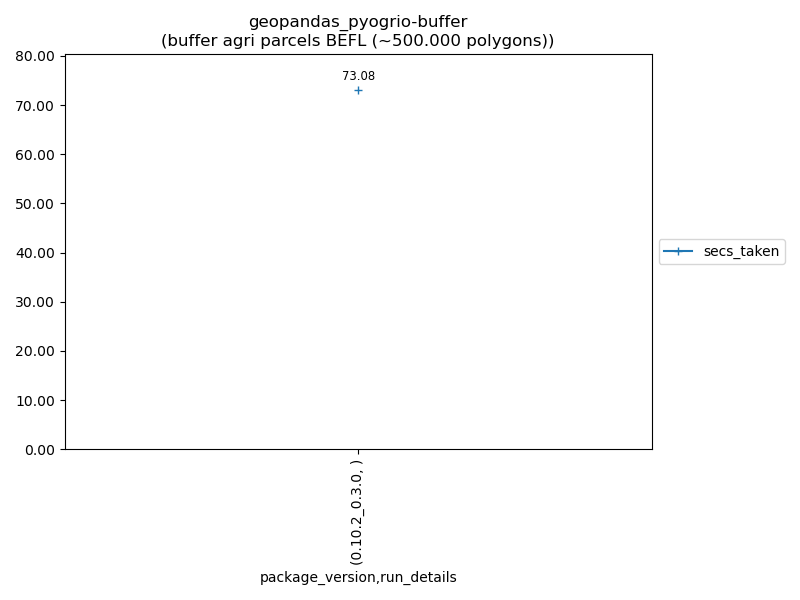
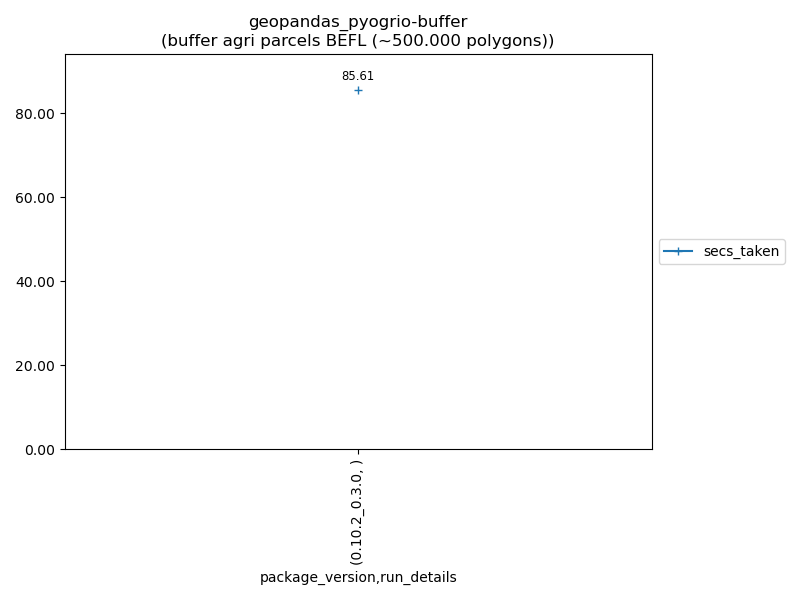
Small improvements

diff --git a/benchmarks/benchmarks_geopandas_pyogrio.py b/benchmarks/benchmarks_geopandas_pyogrio.py
@@ -7,6 +7,7 @@ from datetime import datetime
 import logging
 from pathlib import Path
 
+from geofileops.util import geoseries_util
 import geopandas as gpd
 import pyogrio
 
@@ -23,10 +24,10 @@ logger = logging.getLogger(__name__)
 # The real work
 ################################################################################
 
-def get_package() -> str:
+def _get_package() -> str:
     return "geopandas_pyogrio"
 
-def get_version() -> str:
+def _get_version() -> str:
     return f"{gpd.__version__}_{pyogrio.__version__}".replace("v", "")
 
 def buffer(tmp_dir: Path) -> RunResult:
@@ -47,12 +48,14 @@ def buffer(tmp_dir: Path) -> RunResult:
     
     # Write to output file
     start_time_write = datetime.now()
+    # Harmonize, otherwise invalid gpkg because mixed poly and multipoly
+    gdf.geometry = geoseries_util.harmonize_geometrytypes(gdf.geometry)
     output_path = tmp_dir / f"{input_path.stem}_geopandas_buf.gpkg"
     pyogrio.write_dataframe(gdf, output_path, layer=output_path.stem, driver="GPKG")
     logger.info(f"write took {(datetime.now()-start_time_write).total_seconds()}")    
     result = RunResult(
-            package=get_package(), 
-            package_version=get_version(),
+            package=_get_package(), 
+            package_version=_get_version(),
             operation="buffer", 
             secs_taken=(datetime.now()-start_time).total_seconds(),
             operation_descr="buffer agri parcels BEFL (~500.000 polygons)")
@@ -84,8 +87,8 @@ def dissolve(tmp_dir: Path) -> RunResult:
     pyogrio.write_dataframe(gdf, output_path, layer=output_path.stem, driver="GPKG")
     logger.info(f"write took {(datetime.now()-start_time_write).total_seconds()}")
     result = RunResult(
-            package=get_package(), 
-            package_version=get_version(),
+            package=_get_package(), 
+            package_version=_get_version(),
             operation="dissolve", 
             secs_taken=(datetime.now()-start_time).total_seconds(),
             operation_descr="dissolve agri parcels BEFL (~500.000 polygons)")
@@ -116,8 +119,8 @@ def dissolve_groupby(tmp_dir: Path) -> RunResult:
     pyogrio.write_dataframe(gdf, output_path, layer=output_path.stem, driver="GPKG")
     logger.info(f"write took {(datetime.now()-start_time_write).total_seconds()}")
     result = RunResult(
-            package=get_package(), 
-            package_version=get_version(),
+            package=_get_package(), 
+            package_version=_get_version(),
             operation="dissolve_groupby", 
             secs_taken=(datetime.now()-start_time).total_seconds(),
             operation_descr="dissolve on agri parcels BEFL (~500.000 polygons), groupby=GEWASGROEPs")
@@ -150,8 +153,8 @@ def intersect(tmp_dir: Path) -> RunResult:
     logger.info(f"write took {(datetime.now()-start_time_write).total_seconds()}")
     secs_taken = (datetime.now()-start_time).total_seconds()
     result = RunResult(
-            package=get_package(), 
-            package_version=get_version(),
+            package=_get_package(), 
+            package_version=_get_version(),
             operation='intersect', 
             secs_taken=secs_taken,
             operation_descr="intersect between 2 agri parcel layers BEFL (2*~500.000 polygons)")

diff --git a/benchmarks/benchmarks_geofileops.py b/benchmarks/benchmarks_geofileops.py
@@ -23,10 +23,10 @@ logger = logging.getLogger(__name__)
 # The real work
 ################################################################################
 
-def get_package() -> str:
+def _get_package() -> str:
     return "geofileops"
 
-def get_version() -> str:
+def _get_version() -> str:
     return gfo.__version__
 
 def buffer(tmp_dir: Path) -> RunResult:
@@ -39,8 +39,8 @@ def buffer(tmp_dir: Path) -> RunResult:
     start_time = datetime.now()
     gfo.buffer(input_path, output_path, distance=1, force=True)
     result = RunResult(
-            package=get_package(), 
-            package_version=get_version(),
+            package=_get_package(), 
+            package_version=_get_version(),
             operation="buffer", 
             secs_taken=(datetime.now()-start_time).total_seconds(),
             operation_descr="buffer on agri parcel layer BEFL (~500.000 polygons)",
@@ -64,8 +64,8 @@ def dissolve_nogroupby(tmp_dir: Path) -> RunResult:
             explodecollections=True,
             force=True)
     result = RunResult(
-            package=get_package(), 
-            package_version=get_version(),
+            package=_get_package(), 
+            package_version=_get_version(),
             operation="dissolve",
             secs_taken=(datetime.now()-start_time).total_seconds(),
             operation_descr="dissolve on agri parcels BEFL (~500.000 polygons)",
@@ -90,8 +90,8 @@ def dissolve_groupby(tmp_dir: Path) -> RunResult:
             explodecollections=True,
             force=True)
     result = RunResult(
-            package=get_package(), 
-            package_version=get_version(),
+            package=_get_package(), 
+            package_version=_get_version(),
             operation="dissolve_groupby", 
             secs_taken=(datetime.now()-start_time).total_seconds(),
             operation_descr="dissolve on agri parcels BEFL (~500.000 polygons), groupby=[GEWASGROEP]",
@@ -114,8 +114,8 @@ def intersect(tmp_dir: Path) -> RunResult:
             output_path=output_path,
             force=True)
     result = RunResult(
-            package=get_package(), 
-            package_version=get_version(),
+            package=_get_package(), 
+            package_version=_get_version(),
             operation='intersect', 
             secs_taken=(datetime.now()-start_time).total_seconds(),
             operation_descr="intersect between 2 agri parcel layers BEFL (2*~500.000 polygons)",
@@ -138,8 +138,8 @@ def union(tmp_dir: Path) -> RunResult:
             output_path=output_path,
             force=True)
     result = RunResult(
-            package=get_package(), 
-            package_version=get_version(),
+            package=_get_package(), 
+            package_version=_get_version(),
             operation="union",
             secs_taken=(datetime.now()-start_time).total_seconds(),
             operation_descr="union between 2 agri parcel layers BEFL (2*~500.000 polygons)",

diff --git a/benchmarks/benchmarks_geopandas.py b/benchmarks/benchmarks_geopandas.py
@@ -22,10 +22,10 @@ logger = logging.getLogger(__name__)
 # The real work
 ################################################################################
 
-def get_package() -> str:
+def _get_package() -> str:
     return "geopandas"
 
-def get_version() -> str:
+def _get_version() -> str:
     return gpd.__version__
 
 def buffer(tmp_dir: Path) -> RunResult:
@@ -50,8 +50,8 @@ def buffer(tmp_dir: Path) -> RunResult:
     gdf.to_file(output_path, layer=output_path.stem, driver="GPKG")
     logger.info(f"write took {(datetime.now()-start_time_write).total_seconds()}")    
     result = RunResult(
-            package=get_package(), 
-            package_version=get_version(),
+            package=_get_package(), 
+            package_version=_get_version(),
             operation="buffer", 
             secs_taken=(datetime.now()-start_time).total_seconds(),
             operation_descr="buffer agri parcels BEFL (~500.000 polygons)")
@@ -83,8 +83,8 @@ def dissolve(tmp_dir: Path) -> RunResult:
     gdf.to_file(output_path, layer=output_path.stem, driver="GPKG")
     logger.info(f"write took {(datetime.now()-start_time_write).total_seconds()}")
     result = RunResult(
-            package=get_package(), 
-            package_version=get_version(),
+            package=_get_package(), 
+            package_version=_get_version(),
             operation="dissolve", 
             secs_taken=(datetime.now()-start_time).total_seconds(),
             operation_descr="dissolve agri parcels BEFL (~500.000 polygons)")
@@ -115,8 +115,8 @@ def dissolve_groupby(tmp_dir: Path) -> RunResult:
     gdf.to_file(output_path, layer=output_path.stem, driver="GPKG")
     logger.info(f"write took {(datetime.now()-start_time_write).total_seconds()}")
     result = RunResult(
-            package=get_package(), 
-            package_version=get_version(),
+            package=_get_package(), 
+            package_version=_get_version(),
             operation="dissolve_groupby", 
             secs_taken=(datetime.now()-start_time).total_seconds(),
             operation_descr="dissolve on agri parcels BEFL (~500.000 polygons), groupby=GEWASGROEPs")
@@ -149,8 +149,8 @@ def intersect(tmp_dir: Path) -> RunResult:
     logger.info(f"write took {(datetime.now()-start_time_write).total_seconds()}")
     secs_taken = (datetime.now()-start_time).total_seconds()
     result = RunResult(
-            package=get_package(), 
-            package_version=get_version(),
+            package=_get_package(), 
+            package_version=_get_version(),
             operation='intersect', 
             secs_taken=secs_taken,
             operation_descr="intersect between 2 agri parcel layers BEFL (2*~500.000 polygons)")

diff --git a/benchmarks/benchmarks_dask_geopandas.py b/benchmarks/benchmarks_dask_geopandas.py
@@ -9,6 +9,7 @@ import multiprocessing
 from pathlib import Path
 
 import dask_geopandas as dgpd
+from geofileops.util import geoseries_util
 import pyogrio
 
 from benchmarker import RunResult
@@ -28,7 +29,7 @@ def _get_package() -> str:
     return "dask-geopandas"
 
 def _get_version() -> str:
-    return dgpd.__version__
+    return dgpd.__version__.replace("v", "")
 
 def buffer(tmp_dir: Path) -> RunResult:
     
@@ -56,8 +57,12 @@ def buffer(tmp_dir: Path) -> RunResult:
     #output_path = tmp_dir / f"{input_path.stem}_geopandas_buf.parquet"
     #dask_gdf.to_parquet(output_path) 
 
-    output_path = tmp_dir / f"{input_path.stem}_geopandas_buf.gpkg"
+    # Convert to normal GeoDataFrame
     result_gdf = dask_gdf.compute()
+    # Harmonize, otherwise invalid gpkg because mixed poly and multipoly
+    result_gdf.geometry = geoseries_util.harmonize_geometrytypes(result_gdf.geometry)
+    
+    output_path = tmp_dir / f"{input_path.stem}_geopandas_buf.gpkg"
     pyogrio.write_dataframe(result_gdf, output_path, layer=output_path.stem, driver="GPKG")
     logger.info(f"write took {(datetime.now()-start_time_write).total_seconds()}")    
     result = RunResult(

diff --git a/benchmark_dask_geopandas.py b/benchmark_dask_geopandas.py
@@ -5,4 +5,4 @@ if __name__ == "__main__":
     benchmarker.run_benchmarks(["benchmarks_dask_geopandas"])
 
     # Only run specific benchmark function(s)
-    #benchmarker.run_benchmarks(["benchmarks_geopandas"], ["dissolve_groupby"])
+    #benchmarker.run_benchmarks(["benchmarks_dask_geopandas"], ["buffer"])

diff --git a/benchmark_geopandas.py b/benchmark_geopandas.py
@@ -5,4 +5,4 @@ if __name__ == "__main__":
     benchmarker.run_benchmarks(["benchmarks_geopandas"])
 
     # Only run specific benchmark function(s)
-    #benchmarker.run_benchmarks(["benchmarks_geopandas"], ["dissolve_groupby"])
+    #benchmarker.run_benchmarks(["benchmarks_geopandas"], ["buffer"])
